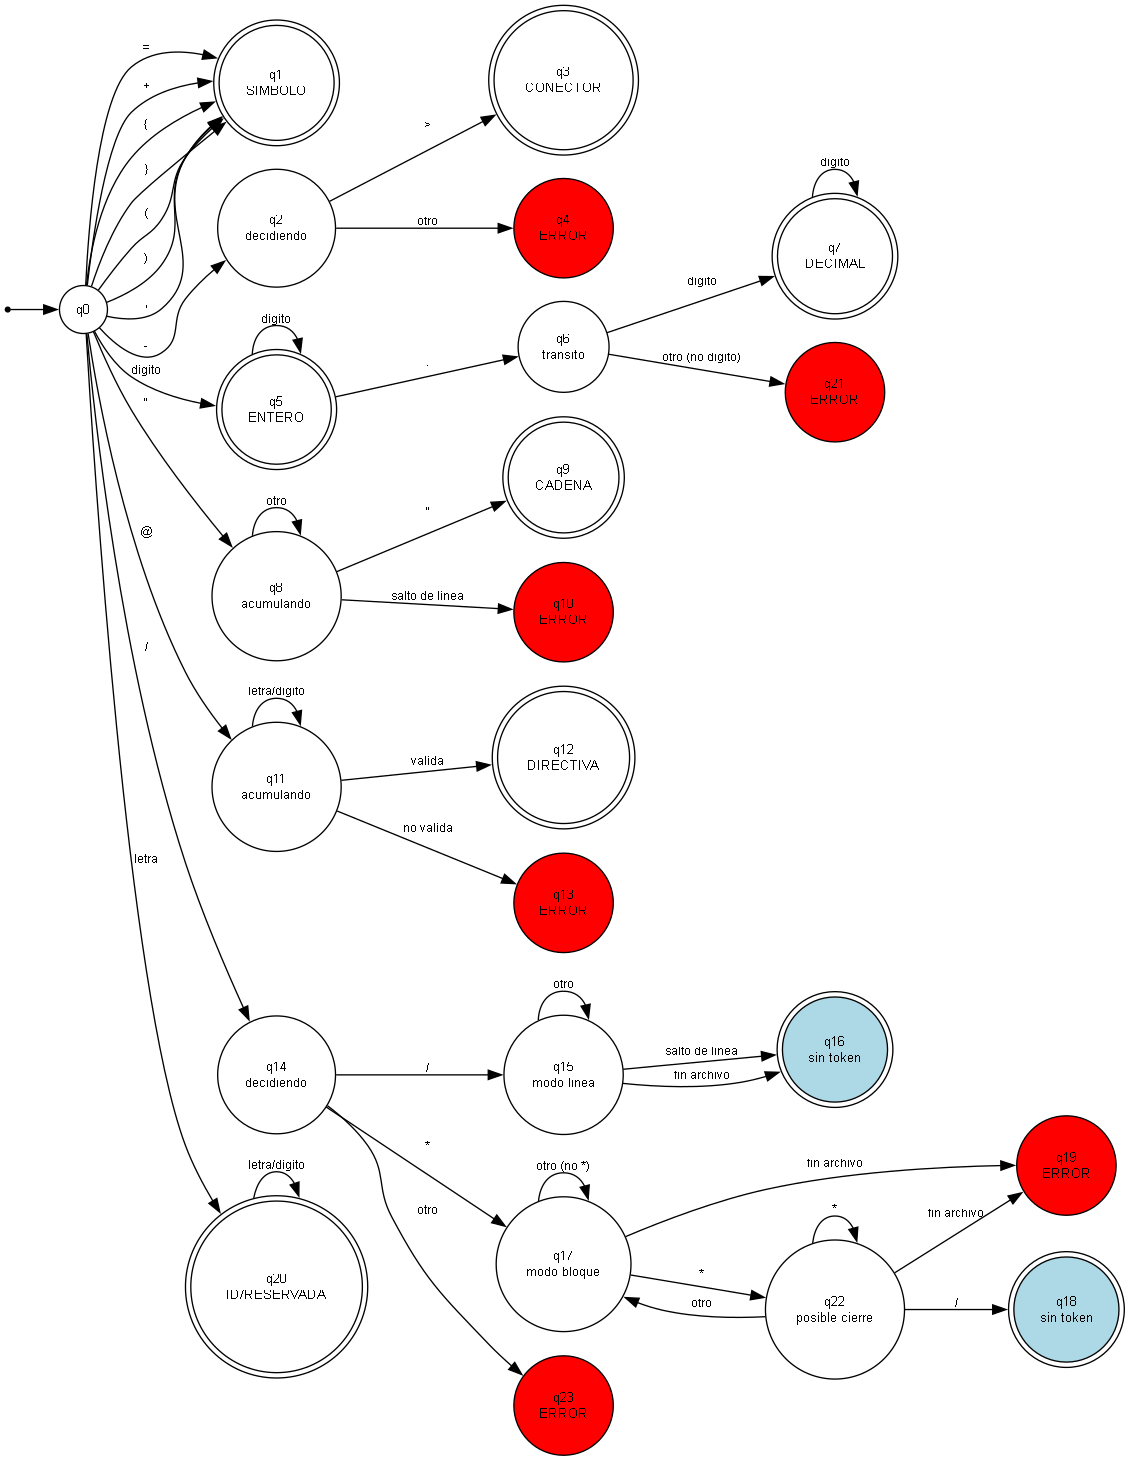
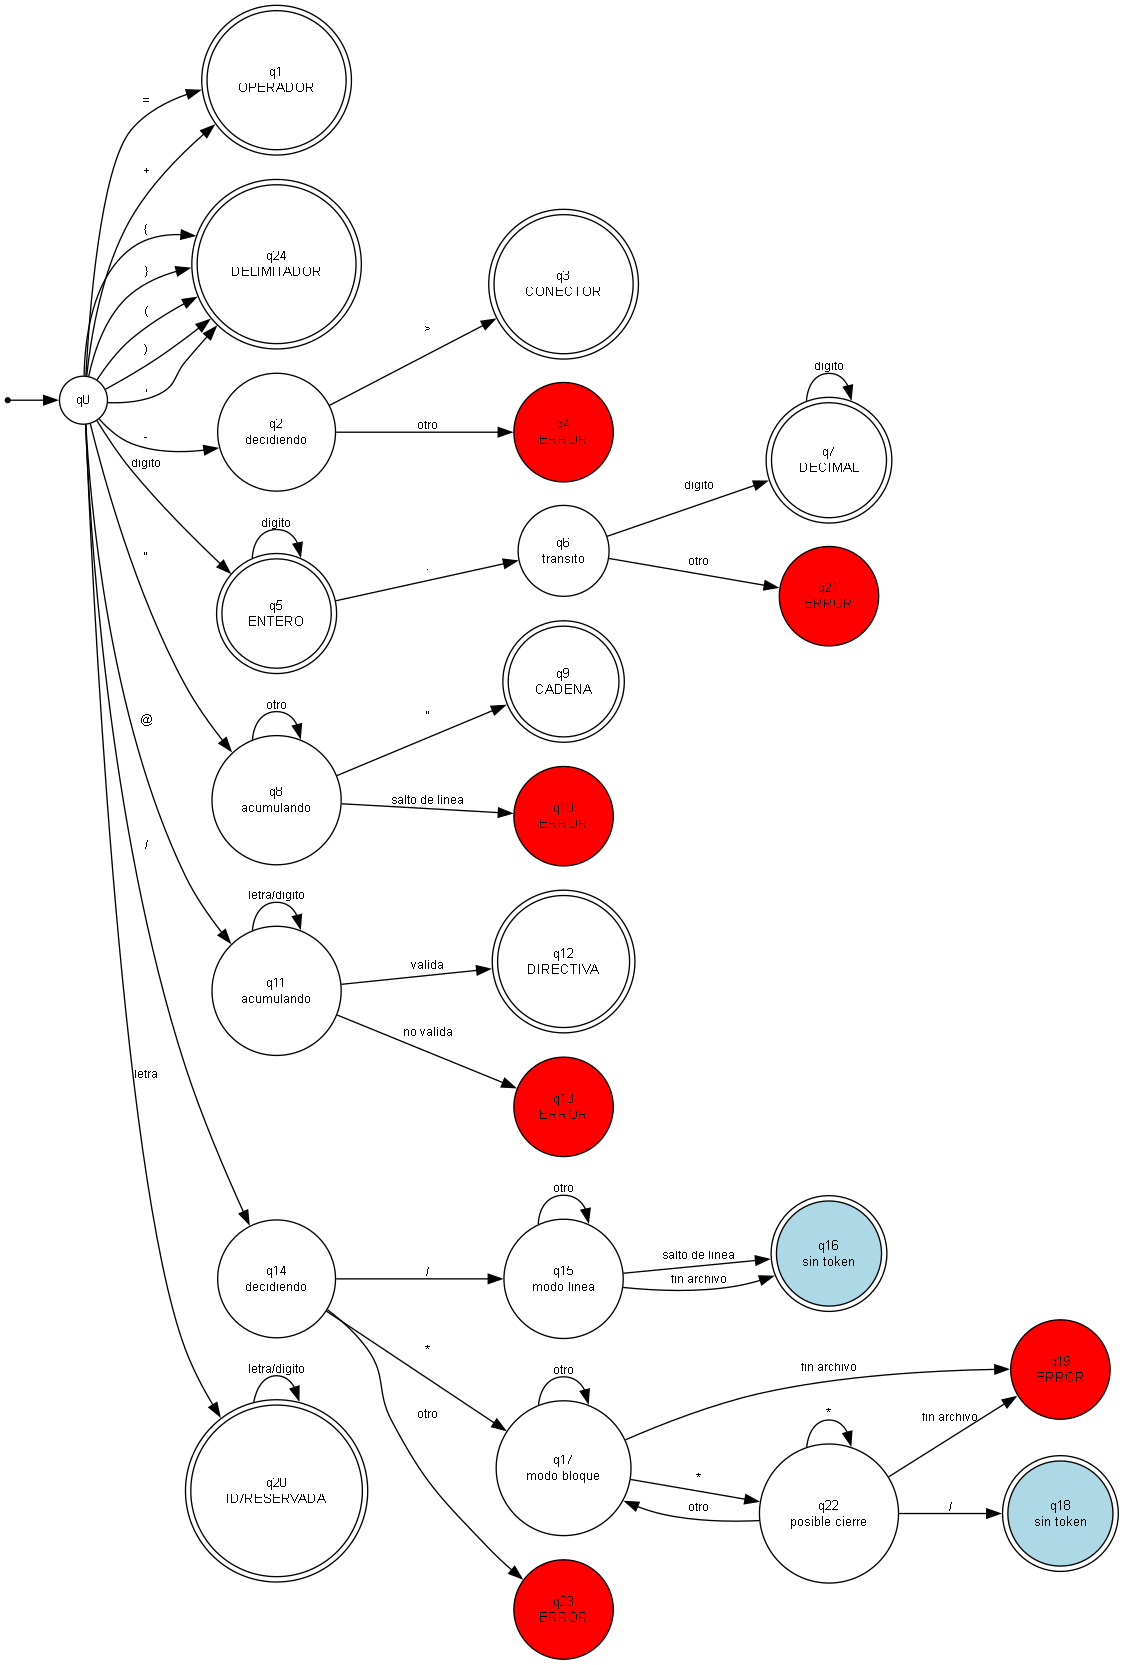
AFD dinamico fase 3: simbolos sueltos con dos estados de aceptacion

diff --git a/src/main/java/com/promptzal/logica/AnalizadorLexico.java b/src/main/java/com/promptzal/logica/AnalizadorLexico.java
@@ -210,7 +210,7 @@ public class AnalizadorLexico {
             } else if (actual == '-') { //Para Conector Flecha
                 reconocer();
             } else if (actual == '=' || actual == '+' || actual == '{' || actual == '}' || actual == '(' || actual == ')' || actual == ',') {
-                leerSimboloSuelto(actual);
+                reconocer(); //Para Simbolo Suelto
             } else {
                 //No encaja en ninguna categoria valida: caracter no reconocido
                 int filaError = fila;
@@ -220,22 +220,6 @@ public class AnalizadorLexico {
                 avanzar();
             }
         }
-    }
-    
-    //Rama simbolo suelto. AFD: q0 --(=,+,{,},(,),,)--> q1 (aceptacion unica,
-    //compartida por los siete simbolos). Sin lazo, sin acumulacion: la
-    //clasificacion OPERADOR/DELIMITADOR se decide al vuelo segun cual
-    //simbolo especifico disparo la transicion.
-    private void leerSimboloSuelto(char simbolo) {
-        //Maneja los simbolos de un solo caracter
-        int filaInicio = fila;
-        int columnaInicio = columna;
-        String tipo = (simbolo == '=' || simbolo == '+') ? "OPERADOR" : "DELIMITADOR";
-
-        avanzar();
-        contadorTokens++;
-        Token token = new Token(contadorTokens, String.valueOf(simbolo), tipo, filaInicio, columnaInicio);
-        listaTokens.add(token);
     }
     
     //Motor: recorre el AFD consultando DefinicionAFD en cada caracter.

diff --git a/src/main/java/com/promptzal/logica/DefinicionAFD.java b/src/main/java/com/promptzal/logica/DefinicionAFD.java
@@ -26,14 +26,15 @@ public class DefinicionAFD {
         estado("q0", "", TipoEstado.TRANSITO);
 
         //Rama: simbolo suelto
-        estado("q1", "SIMBOLO", TipoEstado.ACEPTACION);
+        estado("q1", "OPERADOR", TipoEstado.ACEPTACION);
+        estado("q24", "DELIMITADOR", TipoEstado.ACEPTACION);
         transicion("q0", "q1", "=");
         transicion("q0", "q1", "+");
-        transicion("q0", "q1", "{");
-        transicion("q0", "q1", "}");
-        transicion("q0", "q1", "(");
-        transicion("q0", "q1", ")");
-        transicion("q0", "q1", ",");
+        transicion("q0", "q24", "{");
+        transicion("q0", "q24", "}");
+        transicion("q0", "q24", "(");
+        transicion("q0", "q24", ")");
+        transicion("q0", "q24", ",");
 
         //Rama: conector flecha
         estado("q2", "decidiendo", TipoEstado.TRANSITO);
